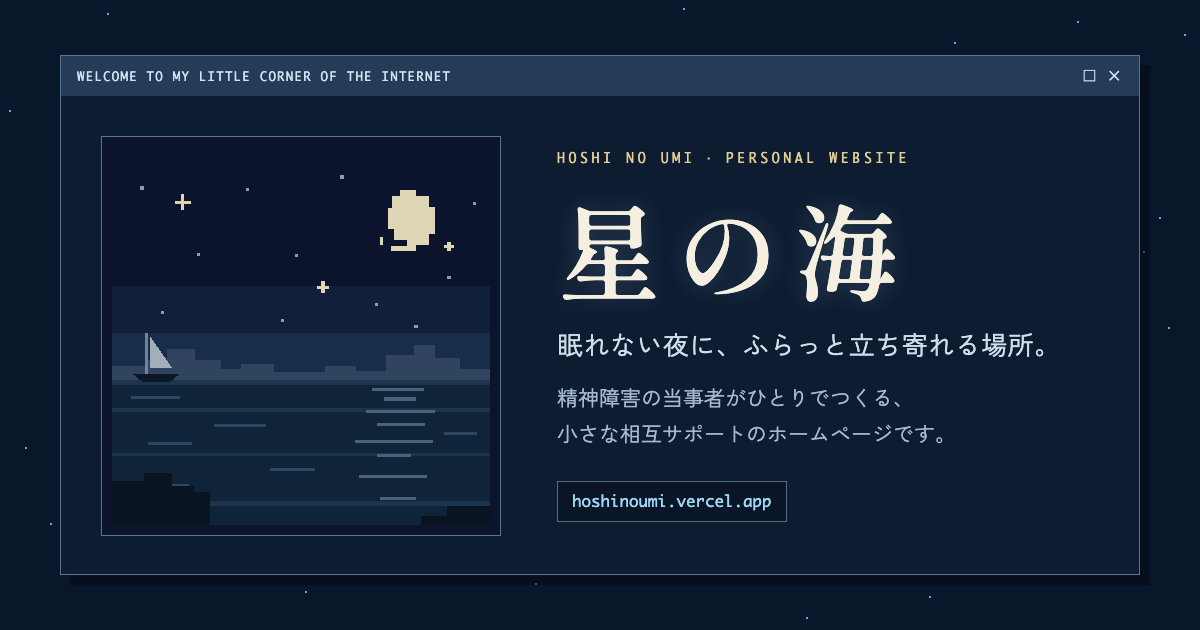
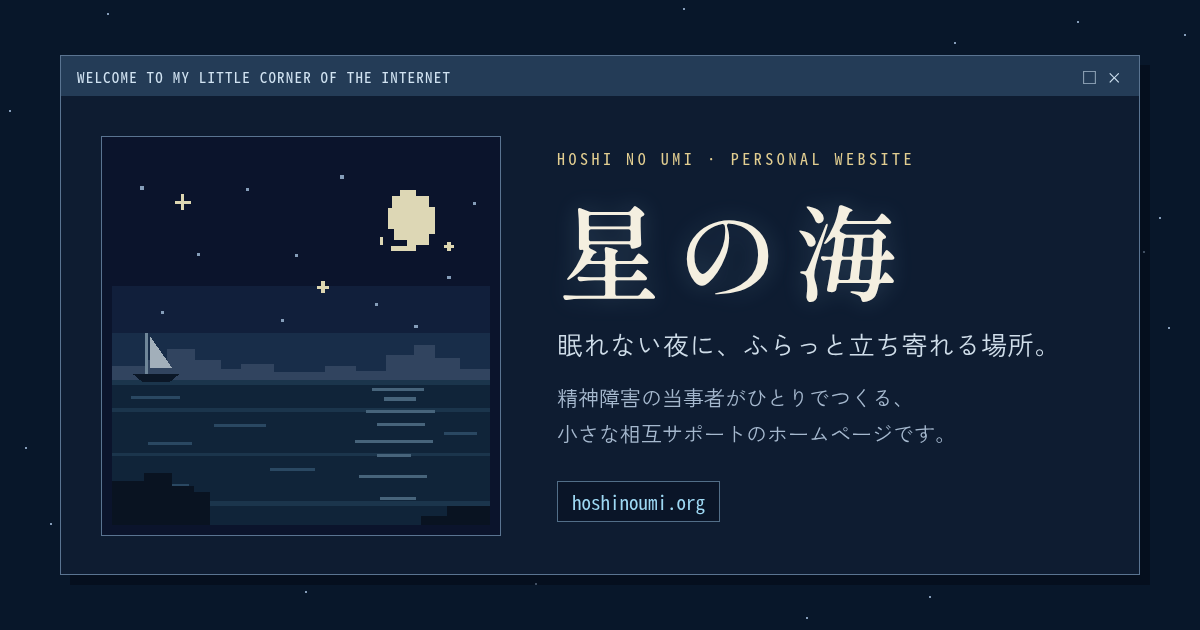
feat: migrate site URLs to hoshinoumi.org

diff --git a/index.html b/index.html
@@ -7,20 +7,20 @@
   <meta name="viewport" content="width=device-width, initial-scale=1, viewport-fit=cover" />
   <meta name="description" content="星の海は、精神障害を抱える方が安心して気持ちを話せる、当事者による相互サポートの場です。" />
   <!-- X や LINE にリンクを貼ったときの見え方。計測用の ?utm_… が付いていても同じページとして扱われるよう canonical を置きます -->
-  <link rel="canonical" href="https://hoshinoumi.vercel.app/" />
+  <link rel="canonical" href="https://hoshinoumi.org/" />
   <meta property="og:type" content="website" />
   <meta property="og:site_name" content="星の海" />
   <meta property="og:title" content="星の海 — こころを休める場所" />
   <meta property="og:description" content="精神障害の当事者がひとりで運営している、相互サポートの場です。読むだけでも、音楽を聴くだけでも。言葉にならない夜も、ここにいていい。" />
-  <meta property="og:url" content="https://hoshinoumi.vercel.app/" />
+  <meta property="og:url" content="https://hoshinoumi.org/" />
   <meta property="og:locale" content="ja_JP" />
   <!-- 共有したときの画像（1200×630）。元は tools/og-image/og-image.html、作り直しは同じフォルダの render.cjs -->
-  <meta property="og:image" content="https://hoshinoumi.vercel.app/assets/og-image.png" />
+  <meta property="og:image" content="https://hoshinoumi.org/assets/og-image.png" />
   <meta property="og:image:width" content="1200" />
   <meta property="og:image:height" content="630" />
   <meta property="og:image:alt" content="三日月と星が浮かぶ夜の海のドット絵と、「星の海　眠れない夜に、ふらっと立ち寄れる場所。」の文字" />
   <meta name="twitter:card" content="summary_large_image" />
-  <meta name="twitter:image" content="https://hoshinoumi.vercel.app/assets/og-image.png" />
+  <meta name="twitter:image" content="https://hoshinoumi.org/assets/og-image.png" />
   <meta name="theme-color" content="#0b1626" />
   <title>星の海</title>
   <link rel="preconnect" href="https://fonts.googleapis.com">
@@ -533,7 +533,7 @@
     </div>
   </section>
 
-  <section id="links" aria-labelledby="links-title"><div class="glass-panel"><div class="sec-head"><span class="sec-no">LINK</span><h2 id="links-title" class="sec-title">インターネットの小さな道しるべ</h2></div><p class="lead">このホームページの、もうひとつの入口と、お役立ちリンク。</p><div class="links-grid"><a class="link-item" href="https://www.youtube.com/@jenjenjenjun" target="_blank" rel="noopener noreferrer"><span class="link-label">YouTube ↗</span><div><h3>星の海の動画</h3><p>眠れない夜に。毎晩、短い動画を置いています。</p></div></a><a class="link-item" href="#music"><span class="link-label">MUSIC ROOM</span><div><h3>星の海の音楽室</h3><p>言葉を探さず、音に耳をすます時間。</p></div></a><a class="link-item" href="https://www.mhlw.go.jp/mamorouyokokoro/" target="_blank" rel="noopener noreferrer"><span class="link-label">こころの窓口 ↗</span><div><h3>まもろうよ こころ</h3><p>厚生労働省による、電話・SNSの相談窓口のご案内。</p></div></a></div><div class="banner-guide"><a class="site-banner" href="https://hoshinoumi.vercel.app/">星の海</a><p style="margin-top:10px">当サイトはリンクフリーです。リンク先はこちら。ご報告はBBSへ、お気軽にどうぞ。</p><code>https://hoshinoumi.vercel.app/</code></div></div></section>
+  <section id="links" aria-labelledby="links-title"><div class="glass-panel"><div class="sec-head"><span class="sec-no">LINK</span><h2 id="links-title" class="sec-title">インターネットの小さな道しるべ</h2></div><p class="lead">このホームページの、もうひとつの入口と、お役立ちリンク。</p><div class="links-grid"><a class="link-item" href="https://www.youtube.com/@jenjenjenjun" target="_blank" rel="noopener noreferrer"><span class="link-label">YouTube ↗</span><div><h3>星の海の動画</h3><p>眠れない夜に。毎晩、短い動画を置いています。</p></div></a><a class="link-item" href="#music"><span class="link-label">MUSIC ROOM</span><div><h3>星の海の音楽室</h3><p>言葉を探さず、音に耳をすます時間。</p></div></a><a class="link-item" href="https://www.mhlw.go.jp/mamorouyokokoro/" target="_blank" rel="noopener noreferrer"><span class="link-label">こころの窓口 ↗</span><div><h3>まもろうよ こころ</h3><p>厚生労働省による、電話・SNSの相談窓口のご案内。</p></div></a></div><div class="banner-guide"><a class="site-banner" href="https://hoshinoumi.org/">星の海</a><p style="margin-top:10px">当サイトはリンクフリーです。リンク先はこちら。ご報告はBBSへ、お気軽にどうぞ。</p><code>https://hoshinoumi.org/</code></div></div></section>
     <div id="support" class="support-section">
       <div class="glass-panel px-6 md:px-10 py-10">
         <div class="sec-head" style="margin-bottom:1.75rem;">
@@ -1459,8 +1459,8 @@
     }
 
     /* ── 日記ごとのリンク ──
-       https://hoshinoumi.vercel.app/?diary=<id> で、その日記を開いた状態で表示する。 */
-    const SITE_URL = 'https://hoshinoumi.vercel.app';
+       https://hoshinoumi.org/?diary=<id> で、その日記を開いた状態で表示する。 */
+    const SITE_URL = 'https://hoshinoumi.org';
     const DIARY_ID_PATTERN = /^[0-9a-f]{8}-[0-9a-f]{4}-[0-9a-f]{4}-[0-9a-f]{4}-[0-9a-f]{12}$/i;
     const diaryUrl = id => `${SITE_URL}/?diary=${encodeURIComponent(id)}`;
 

diff --git a/shorts.html b/shorts.html
@@ -701,7 +701,7 @@
         <h2 class="font-semibold text-sm">ホームページ側の計測</h2>
       </div>
       <p class="text-[11px] text-slate-500">
-        計測スクリプトは hoshinoumi.vercel.app に組み込み済みです。上のリンクを貼ればそのまま記録されます。
+        計測スクリプトは hoshinoumi.org に組み込み済みです。上のリンクを貼ればそのまま記録されます。
       </p>
       <button id="link-test" class="mt-3 glass rounded-xl px-3 py-2 text-xs hover:border-emerald-400/50">リンクを開いて動作を試す</button>
     </div>
@@ -806,7 +806,7 @@
 /* ========================= 設定 ========================= */
 const SUPABASE_URL      = 'https://qnmzjwgacnfxwlbgwxcr.supabase.co';
 const SUPABASE_ANON_KEY = 'sb_publishable_BG0n_GkXIwMBUlSN-W5vzA_vb4rbPKq';
-const SITE_URL          = 'https://hoshinoumi.vercel.app';
+const SITE_URL          = 'https://hoshinoumi.org';
 const CHANNEL_URL       = 'https://www.youtube.com/@jenjenjenjun';
 const YT                = 'youtube';
 

diff --git a/tools/og-image/og-image.html b/tools/og-image/og-image.html
@@ -3,7 +3,9 @@
 <html lang="ja">
 <head>
 <meta charset="UTF-8">
-<link href="https://fonts.googleapis.com/css2?family=Shippori+Mincho+B1:wght@500;600&family=Zen+Kaku+Gothic+New:wght@400;500&display=block" rel="stylesheet">
+<link href="node_modules/@fontsource/shippori-mincho-b1/600.css" rel="stylesheet">
+<link href="node_modules/@fontsource/zen-kaku-gothic-new/400.css" rel="stylesheet">
+<link href="node_modules/@fontsource/zen-kaku-gothic-new/500.css" rel="stylesheet">
 <style>
   * { box-sizing: border-box; margin: 0; }
   html, body { width: 1200px; height: 630px; overflow: hidden; }
@@ -56,7 +58,7 @@
         <h1>星の海</h1>
         <p class="tagline">眠れない夜に、ふらっと立ち寄れる場所。</p>
         <p class="lead">精神障害の当事者がひとりでつくる、<br>小さな相互サポートのホームページです。</p>
-        <p class="url">hoshinoumi.vercel.app</p>
+        <p class="url">hoshinoumi.org</p>
       </div>
     </div>
   </div>

diff --git a/README.md b/README.md
@@ -3,7 +3,7 @@
 1995年頃の個人ホームページをイメージした、静的HTMLとSupabaseのサイトです。
 トップページは `index.html`、共通のレトロな見た目は `retro.css`、海のドット絵は `assets/starlit-sea.svg` にあります。
 
-公開URLは https://hoshinoumi.vercel.app/ です。
+公開URLは https://hoshinoumi.org/ です。
 
 ## 公開サイトに載せないファイル
 
@@ -49,20 +49,23 @@ docker run --rm --network none --tmpfs /var/lib/postgresql/data \
 - **YouTube分析**：動画IDを画像・リンクのURLに入れる前に、YouTubeのIDに使われる文字だけかを確かめるようにしました。
 - 訪問の記録で送る値を、DB側の上限と同じ長さに切ってから送るようにしました。
 
-## 公開URLの切り替え
+## 独自ドメインへの切り替え（hoshinoumi.org）
 
-コードの変更とGitHubへのプッシュだけでは、Vercelのドメイン設定は変わりません。新URLを有効にするには、Vercelにログインして次を設定してください。
+正規URLは **https://hoshinoumi.org/**（wwwなし）です。サイト内の共有・計測リンク、canonical・OGP、共有画像、掲示板通知、ニュース取得のUser-AgentをこのURLに統一しています。Supabaseの接続先・テーブル・保存キーは変更しません。
 
-1. 現在このサイトを公開しているプロジェクトの **Settings → Domains → Add Domain** で `hoshinoumi.vercel.app` を追加し、Productionに接続します。
-2. 新URLでトップページと `/shorts.html` が開けることを確認します。YouTubeの計測リンクも、新URLに `utm_source`・`utm_medium`・`utm_content` が付いた状態で開けることを確認してください。
-3. 旧ドメインは削除せず、**Edit → Redirect to** で新ドメインへの恒久リダイレクトを設定します。旧URLの `/shorts.html` や計測パラメーター付きリンクでも、パスとパラメーターが引き継がれることを確認してください。
-4. YouTubeのプロフィールや投稿済み動画の説明文など、手動で掲載したURLも新URLに更新してください。
+GitHubへのプッシュだけでは、DNS・Vercel・Supabaseの設定や既存のDB関数は更新されません。次の順で設定してください。
 
-ドメイン追加で「使用済み」と表示された場合は、Vercel側でそのドメインの利用状況を確認する必要があります。
+1. **旧ドメインから転送する前に**、入力に使ったブラウザーで https://hoshinoumi.vercel.app/shorts.html を開き、「分析の土台」と各動画・各計測日の未保存の数字を保存してください。ブラウザー内の控えとログイン状態はドメインごとに別です。新ドメインではログインし直し、クラウドの保存内容を読み込みます。確認が終わるまで旧ドメインを利用可能にしてください。
+2. Vercelの既存のmy-siteプロジェクトで **Settings → Domains → Add Domain** から `hoshinoumi.org` を追加し、Productionに接続します。`www.hoshinoumi.org` も使う場合は追加します。
+3. ドメインを取得したサービスのDNS設定で、**Vercelが表示するレコードの種類・名前・値**を登録します。既存のメール用MX・TXTなどは残してください。VercelでDNS検証とHTTPS証明書の発行完了を確認します。
+4. Supabaseの **Authentication → URL Configuration** の **Site URL** を `https://hoshinoumi.org` に変更し、**Redirect URLs** に確認メール・パスワード再設定などで使う新URLの戻り先を登録します。同じSupabaseプロジェクトを使い、DBの作り直しやデータ削除は不要です。
+5. 新URLでトップページ、日記の共有リンク、`/shorts.html`、`/it-news.html`、`/niigata-cafes-list.html`、`/assets/og-image.png` を確認します。管理者としてログインし、保存済みデータ、共有URL、UTMパラメーター付き計測リンクも確認してください。
+6. 保存内容と新ドメインの動作を確認してから、Vercelで旧 `hoshinoumi.vercel.app` と任意の `www.hoshinoumi.org` を、正規ドメインへの恒久リダイレクトに設定します。旧ドメインは削除せず、パス・日記のクエリー・UTM・`#bulletin` が引き継がれることを確認してください。未保存データの回収を妨げないよう、リポジトリーには即時転送を追加していません。
+7. YouTubeのプロフィールや投稿済み動画の説明文など、手動で掲載したURLも変更してください。動画識別子とUTMパラメーターは維持します。
 
-Supabaseの **Authentication → URL Configuration** に旧URLを設定している場合は、**Site URL** と該当する **Redirect URLs** を新URLに更新してください。現在のログインはメール・パスワード方式ですが、確認メールやパスワード再設定の戻り先にはこの設定が使われます。
+掲示板通知SQLを導入済みの場合は、`bbs-moderation.sql` の `create or replace function public.notify_new_bulletin_message()` から対応する `$$;` までをSupabaseのSQL Editorで再実行してください。ニュース取得SQLを導入済みの場合も、`it-news.sql` の `create or replace function it_news_fetch_source(p_id uuid)` から対応する `$fn$;` までを再実行してください。既存の通知先・認証情報・トリガー設定は変更せず、関数内のURLを更新します。
 
-掲示板通知メールのSQLを導入済みの場合は、`bbs-moderation.sql` をSupabaseのSQL Editorで実行すると、メール内のリンクも新URLになり、通知に名前・本文を含めなくなります。ニュース取得SQLを導入済みの場合も、`it-news.sql` の `create or replace function it_news_fetch_source(p_id uuid)` から対応する `$fn$;` までを再実行するとUser-AgentのURLが更新されます。GitHubへのプッシュでは、データベースに保存済みの関数は更新されません。
+訪問済み判定などのブラウザー内キャッシュもドメインごとに別なので、切り替え時に一度追加で訪問が数えられる場合があります。DBに保存済みの累積値はリセットしません。
 
 参考: [Vercelのドメイン追加](https://vercel.com/docs/domains/working-with-domains/add-a-domain)、[ドメインのリダイレクト](https://vercel.com/docs/domains/working-with-domains/deploying-and-redirecting)、[SupabaseのURL設定](https://supabase.com/docs/guides/auth/redirect-urls)。
 
@@ -72,10 +75,11 @@ XやLINEにリンクを貼ると、`assets/og-image.png`（1200×630）が大き
 
 ```sh
 cd tools/og-image
+npm ci
 PLAYWRIGHT_PATH=<playwrightの場所> node render.cjs
 ```
 
-XやLINEは画像を覚えておくことがあるので、作り直してもすぐには変わらない場合があります。
+フォントは固定バージョンのnpmパッケージからローカルで読み込みます。クラウド環境のChromiumを使う場合は `CHROMIUM_PATH=/usr/bin/chromium` も指定してください。XやLINEは画像を覚えておくことがあるので、作り直してもすぐには変わらない場合があります。
 
 ## YouTube分析のプロンプト
 
@@ -176,7 +180,7 @@ create policy "admin_update" on blog_posts for update using (auth.role() = 'auth
 
 ### 日記ごとのリンク
 
-`https://hoshinoumi.vercel.app/?diary=<日記のID>` を開くと、その日記が開いた状態で表示されます（最新100件より古い日記でも開けます）。日記を開くとアドレス欄もこの形になり、閉じると元に戻ります。詳細画面の「この日記へのリンクをコピー」でもコピーできます。
+`https://hoshinoumi.org/?diary=<日記のID>` を開くと、その日記が開いた状態で表示されます（最新100件より古い日記でも開けます）。日記を開くとアドレス欄もこの形になり、閉じると元に戻ります。詳細画面の「この日記へのリンクをコピー」でもコピーできます。
 新しく日記を書いたときにXの投稿画面へ入れるリンクも、トップページではなくその日記へのリンクになりました。Xの文字数では、URLは長さに関わらず23字として数えます。
 
 ### 過去ログ（月ごと）

diff --git a/docs/supabase-setup.md b/docs/supabase-setup.md
@@ -94,7 +94,7 @@ begin
       'from', 'Hoshi no Umi <onboarding@resend.dev>',
       'to', jsonb_build_array('通知を受け取るメールアドレス'),
       'subject', '【星の海】掲示板に新しい書き込みがありました',
-      'html', '<p>掲示板に新しい書き込みがあります。</p><p>通知にはお名前や本文を載せていません。</p><p><a href="https://hoshinoumi.vercel.app/#bulletin">掲示板をひらく</a></p>'
+      'html', '<p>掲示板に新しい書き込みがあります。</p><p>通知にはお名前や本文を載せていません。</p><p><a href="https://hoshinoumi.org/#bulletin">掲示板をひらく</a></p>'
     )
   );
   return new;
